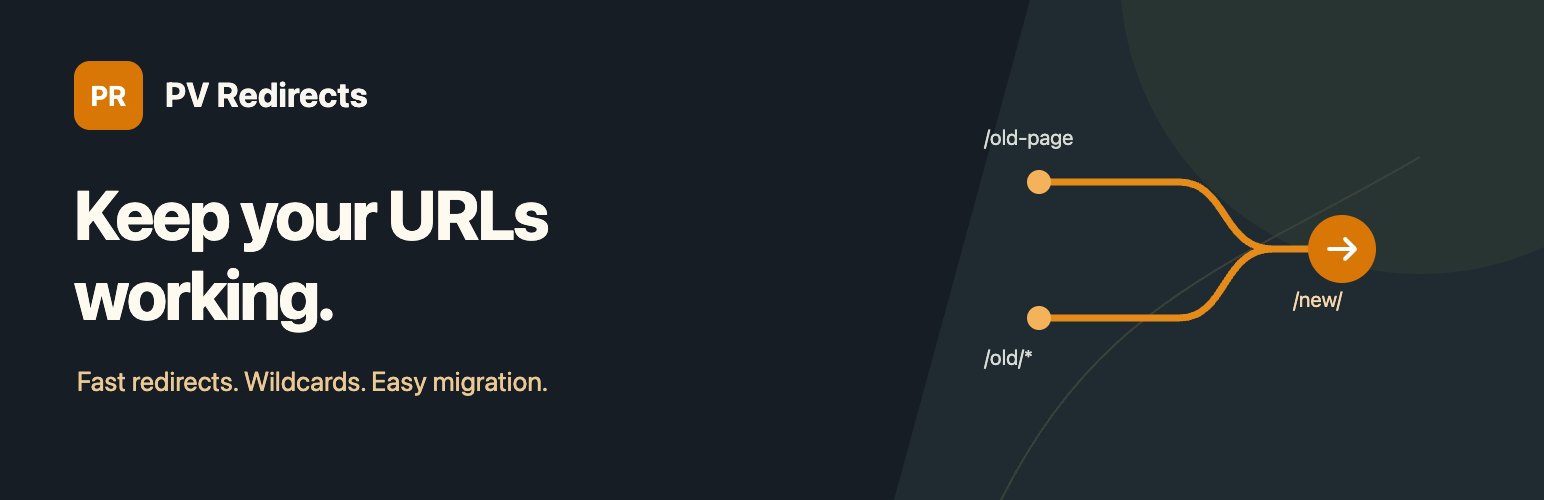
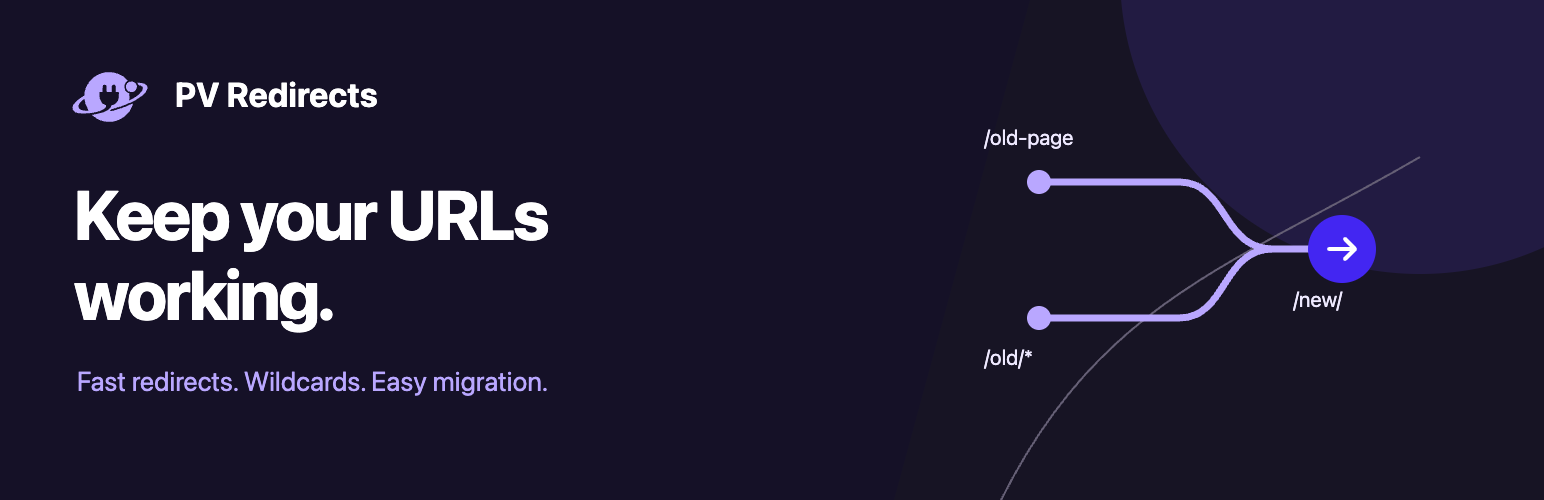
fix(branding): use Pluginverse standalone symbol
Use the canonical plug/orbit mark instead of PR monograms, reference upstream branding in AGENTS.md, and correct the organization spelling. Align listing artwork with official variants and palette.

Spec: docs/specs/distribution.md
Guide: docs/guides/listing.md
Plan: 2026-11-06-pluginverse-branding
Brand source: pluginverse/branding@22c6062499ec2605e63d67b30a4997b1172d8df5
Release: owner authorized replacement of GitHub v1.0.0; installable ZIP remains unchanged

diff --git a/docs/guides/listing.md b/docs/guides/listing.md
@@ -5,7 +5,13 @@ description: Maintain the directory artwork and reproduce genuine screenshots fr
 
 ## Files
 
-Directory media lives in `.wordpress-org/` and is published to SVN's top-level `assets/`, outside the installed plugin archive. Banners are 772×250 and 1544×500 PNGs; icons are 128×128 and 256×256 PNGs. Editable vector sources are `assets/listing/banner.svg`, `icon.svg`, and `overview.svg`. The amber mark extends the existing plugin identity. Export the source at its target size with a browser, preserving text and aspect ratio.
+Directory media lives in `.wordpress-org/` and is published to SVN's top-level `assets/`, outside the installed plugin archive. Banners are 772×250 and 1544×500 PNGs; icons are 128×128 and 256×256 PNGs. Editable vector sources are `assets/listing/banner.svg`, `icon.svg`, and `overview.svg`. Export the source at its target size with a browser, preserving text and aspect ratio.
+
+## Pluginverse brand source
+
+The organization name is **Pluginverse**, one word. [pluginverse/branding](https://github.com/pluginverse/branding) is the canonical source for future brand updates; consult it before changing identity assets. The current standalone plug/orbit symbol comes from `assets/logos/svg/pluginverse-symbol-color.svg` and supplied light-on-dark variants at [commit 22c6062499ec2605e63d67b30a4997b1172d8df5](https://github.com/pluginverse/branding/tree/22c6062499ec2605e63d67b30a4997b1172d8df5/assets/logos/svg). `assets/icon.svg` holds the local standalone symbol; listing sources embed the complete mark rather than a wordmark or PR monogram. Accessible titles use the current Pluginverse spelling.
+
+Keep the supplied geometry, transparent plug cutout, proportions, and clear space. Use the violet `#4326F2` symbol on light surfaces and supplied white/lilac variants on Deep Space `#151127`. Do not extract the plug, retype the wordmark, or recolor individual fragments. Full-symbol placement must meet the source's 48-pixel minimum at the final display size. The existing product name and value-proposition composition remain PV Redirects; the actual admin/editor captures remain unchanged.
 
 `screenshot-1.png` is the 1544×900 value-proposition graphic. Screenshots 2–4 are unchanged 1440×1000 browser captures of the real plugin: redirect manager, expanded post editor Redirect panel, and expanded settings. Their order must match `readme.txt` captions. Do not replace real UI with fabricated screens or alter screenshots to imply features the plugin does not provide.
 

diff --git a/docs/plans/2026-11-06-pluginverse-branding.md b/docs/plans/2026-11-06-pluginverse-branding.md
@@ -1,7 +1,7 @@
 ---
 title: "Plan: Use Pluginverse branding"
 description: Replace PR monograms with the canonical standalone symbol and republish the owner-approved 1.0.0 tag.
-status: in-progress
+status: done
 date: 2026-11-06
 size: bounded
 specs: [distribution]
@@ -9,7 +9,7 @@ specs: [distribution]
 
 ## Intent
 
-The owner corrected the brand name to Pluginverse, requested a reference to the branding repository in AGENTS.md, and explicitly authorized replacement of the existing GitHub 1.0.0 tag and release. Use the standalone plug/orbit symbol, not the text logo. Source: pluginverse/branding main at `a128f2add986d0cb652f4dadf2efaef0ee462f6d`, `assets/logos/svg/pluginverse-symbol-color.svg` and supplied dark-surface variants.
+The owner corrected the brand name to Pluginverse, requested a reference to the branding repository in AGENTS.md, and explicitly authorized replacement of the existing GitHub 1.0.0 tag and release. Use the standalone plug/orbit symbol, not the text logo. Source: pluginverse/branding main at `22c6062499ec2605e63d67b30a4997b1172d8df5`, `assets/logos/svg/pluginverse-symbol-color.svg` and supplied dark-surface variants.
 
 ## Design and acceptance
 
@@ -36,4 +36,8 @@ No redirect behavior, API, dependency, plugin version, or SVG wordmark is added.
 
 ## Verification
 
-Verification results are recorded after implementation and release completion.
+- `composer test`: 166 tests, 656 assertions passed; `composer phpstan` passed (existing local herd module warning).
+- Five PNGs rendered and visually inspected at their required dimensions. No PR monograms or old spaced brand references remain in project prose or logo sources; real screenshots 2–4 are unchanged.
+- Branding refreshed while the owner updated upstream: `a128f2add986d0cb652f4dadf2efaef0ee462f6d` to `22c6062499ec2605e63d67b30a4997b1172d8df5`. The three symbol variants changed only in accessible title spelling; geometry and colors are identical. Local `assets/icon.svg` matches the latest upstream color symbol exactly.
+- Packaging and matching v1.0.0 verification passed. The newly generated installable ZIP is byte-identical to the prior GitHub release ZIP, so the pending WordPress.org submission needs no replacement; updated listing artwork is taken from the new Git tag at SVN publication.
+- Main and the replacement tag are published after this implementation commit. The new tag-triggered GitHub Actions run is the external release verification; no old run is rerun against an obsolete SHA.

diff --git a/docs/specs/distribution.md b/docs/specs/distribution.md
@@ -14,6 +14,7 @@ Produce a verifiable installable archive from each release tag and publish that 
 - The plugin header, readme stable tag, and package version must all match numeric `X.Y.Z`. If supplied, the Git tag must be `vX.Y.Z` with the same version. Prereleases and mismatches fail.
 - A tag workflow runs checks and attaches the verified archive to its GitHub release. A separate manual workflow downloads that release archive, verifies its files against the selected tag, and deploys it to SVN trunk and a new numeric tag. Existing SVN tags are never overwritten.
 - The manual workflow publishes tagged `.wordpress-org/` artwork to the SVN assets directory. Numbered screenshots correspond to readme captions and never enter the plugin archive.
+- Listing artwork uses the Pluginverse standalone plug/orbit symbol from the canonical branding repository, with source provenance and usage recorded in the listing guide. It does not use the text-logo lockup or a PR monogram.
 - Composer package type is `wordpress-plugin` and requires PHP 8.2 or newer. Installation from a Git tag uses a VCS repository and consumer-configured Composer installer.
 
 ## Acceptance criteria

diff --git a/README.md b/README.md
@@ -1,6 +1,6 @@
 ## PV Redirects
 
-PV Redirects (Plugin Verse Redirects) is a WordPress redirect manager built for speed and automation: every redirect resolves through one autoloaded map, so the front-end read path is a single `get_option` round-trip with zero DB queries on a cache hit. It is a modern replacement for Quick Page/Post Redirect (QPPR) — wildcard redirects, a WP-components admin (no jQuery), and WP-CLI management including one-command migration off QPPR.
+PV Redirects (Pluginverse Redirects) is a WordPress redirect manager built for speed and automation: every redirect resolves through one autoloaded map, so the front-end read path is a single `get_option` round-trip with zero DB queries on a cache hit. It is a modern replacement for Quick Page/Post Redirect (QPPR) — wildcard redirects, a WP-components admin (no jQuery), and WP-CLI management including one-command migration off QPPR.
 
 ## Features
 

diff --git a/docs/product/vision.md b/docs/product/vision.md
@@ -5,7 +5,7 @@ description: Who PV Redirects is for, the problem it solves, and what it will no
 
 ## Who it is for
 
-Plugin Verse sites and the people and agents operating them: teams that keep hundreds or thousands of legacy URLs alive across posts and custom post types, and who manage redirects from the terminal — or hand them to an AI agent — rather than clicking through a browser tab. It is also for anyone still running Quick Page/Post Redirect (QPPR) who wants out without downtime.
+Pluginverse sites and the people and agents operating them: teams that keep hundreds or thousands of legacy URLs alive across posts and custom post types, and who manage redirects from the terminal — or hand them to an AI agent — rather than clicking through a browser tab. It is also for anyone still running Quick Page/Post Redirect (QPPR) who wants out without downtime.
 
 ## The problem
 

diff --git a/AGENTS.md b/AGENTS.md
@@ -2,10 +2,14 @@
 
 ## Purpose
 
-PV Redirects (Plugin Verse Redirects) is a WordPress plugin that replaces Quick Page/Post Redirect:
+PV Redirects (Pluginverse Redirects) is a WordPress plugin that replaces Quick Page/Post Redirect:
 fast redirects via one computed autoloaded map (single read per request, zero DB on cache hit),
 wildcard matching, per-post redirects, a WP-components admin, WP-CLI-first operations, and a
 one-command migration off QPPR. Deployed from this repo to `pluginverse/pv-redirects-plugin`.
+
+## Branding
+
+Write the brand name **Pluginverse**. Consult the [canonical branding repository](https://github.com/pluginverse/branding) for future visuals. Use the standalone symbol at `assets/logos/svg/pluginverse-symbol-color.svg`, not the wordmark; preserve its supplied clear space and use the appropriate official variant.
 
 ## Quick start
 

diff --git a/CHANGELOG.md b/CHANGELOG.md
@@ -8,6 +8,10 @@ The format is based on [Keep a Changelog](https://keepachangelog.com/en/1.1.0/),
 
 ## [1.0.0] - 2026-11-06
 
+### Changed
+
+- Correct the brand name to Pluginverse and replace PR monograms with the canonical standalone plug/orbit symbol in listing banners, icons, and overview artwork. The owner requested replacement of the GitHub 1.0.0 release before WordPress.org approval.
+
 ### Fixed
 
 - Load the QPPR migrator in standalone plugin installations, load declared admin bundle dependencies, and normalize WordPress request globals before routing.

diff --git a/docs/specs/redirects.md b/docs/specs/redirects.md
@@ -10,7 +10,7 @@ status: current
 
 PV Redirects moves sites off Quick Page/Post Redirect (QPPR) without downtime: redirects keep
 living in an option and in post meta where editors expect them, while the front-end read path
-loads exactly one autoloaded, precomputed map per request. For Plugin Verse sites it is the single
+loads exactly one autoloaded, precomputed map per request. For Pluginverse sites it is the single
 redirect manager — CLI-first, no jQuery, wildcard-capable.
 
 ## Behavior

diff --git a/docs/plans/2026-11-04-pv-redirects-v1.md b/docs/plans/2026-11-04-pv-redirects-v1.md
@@ -1,6 +1,6 @@
 # Plan: PV Redirects v1.0.0 — 2026-11-04
 
-Build PV Redirects (Plugin Verse Redirects), a modern replacement for Quick Page/Post Redirect
+Build PV Redirects (Pluginverse Redirects), a modern replacement for Quick Page/Post Redirect
 (QPPR). Goal: lossless migration path, single-round-trip read path, wildcard matching, WP-components
 admin, WP-CLI-first operations.
 
